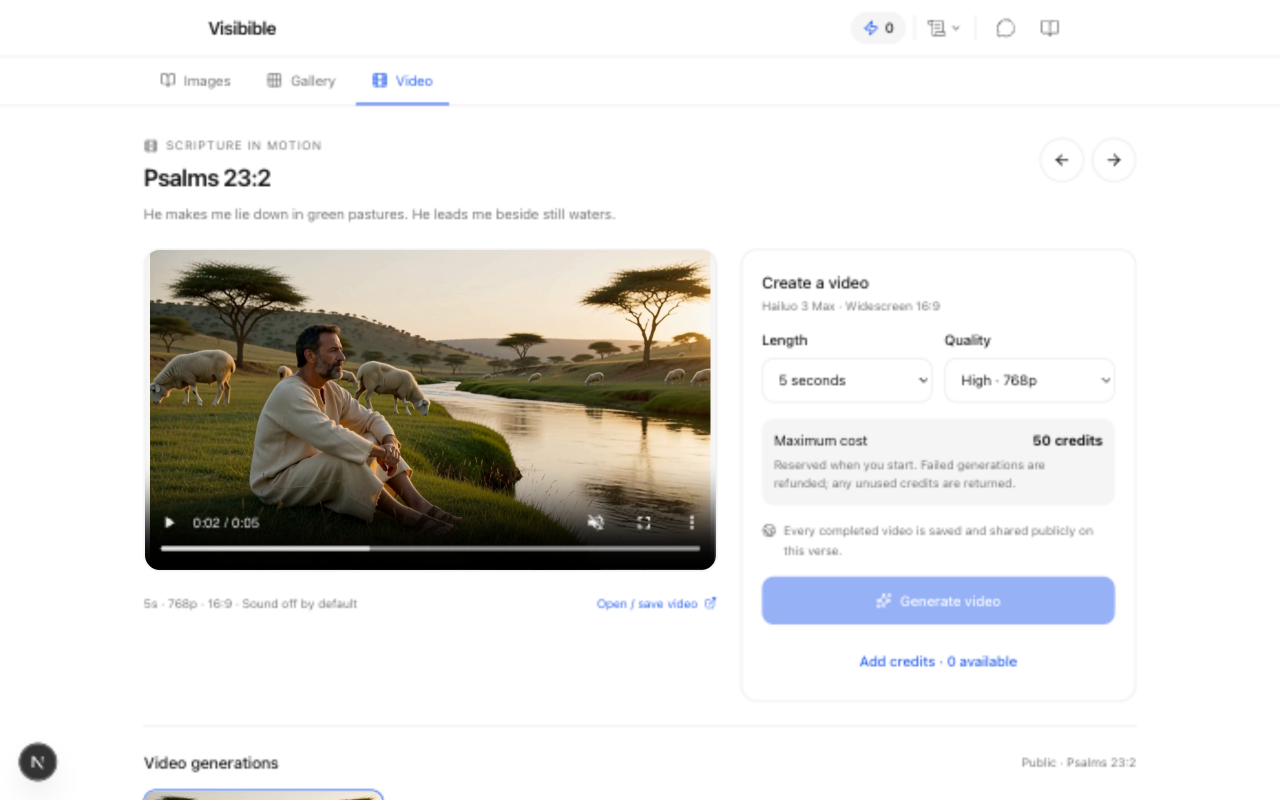
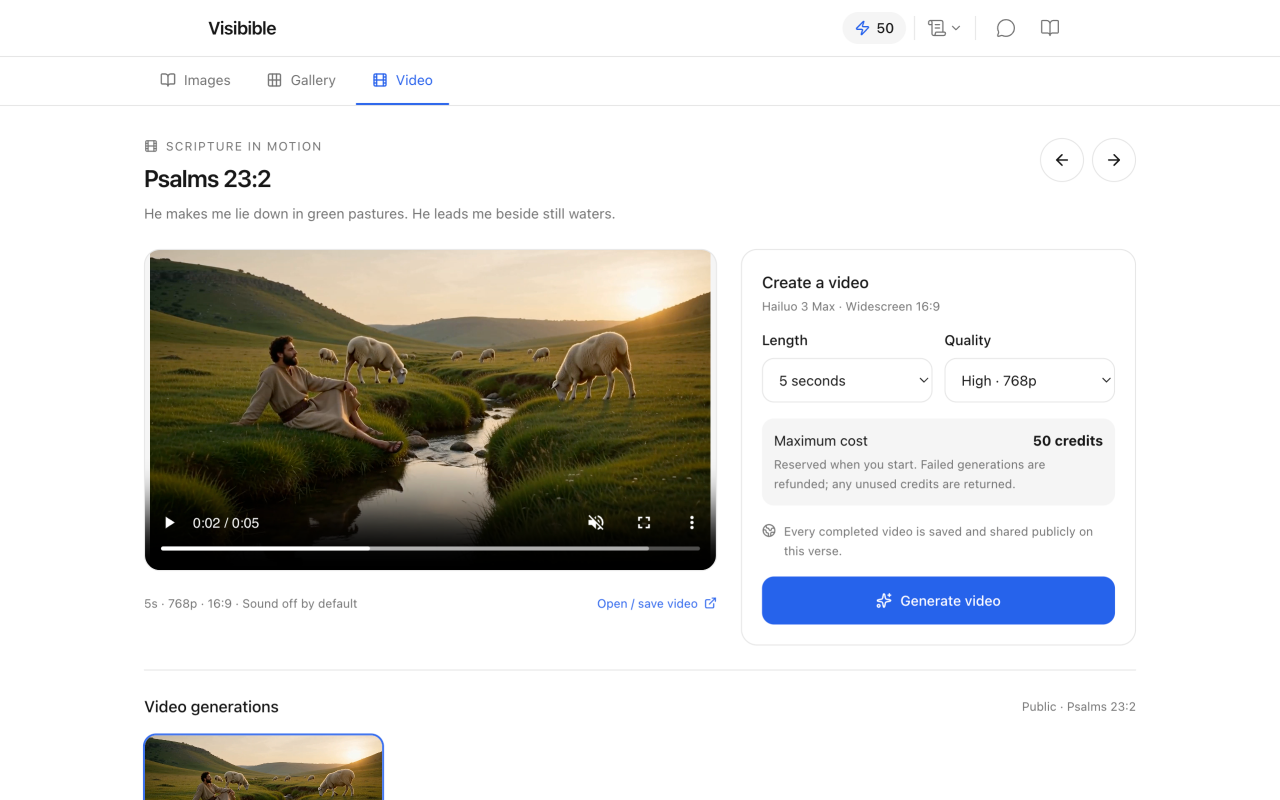
Record hosted video generation and playback evidence

diff --git a/llm/releases/2026-10-30-video-mode/README.md b/llm/releases/2026-10-30-video-mode/README.md
@@ -1,13 +1,23 @@
 # Video mode integration evidence
 
-These screenshots show the integrated Video tab on the October 30 main base (`f73baa8`), using an existing local Psalms 23:2 clip. Desktop: 1280×800; mobile viewport: 390×844. They establish local UI behavior, not hosted worker readiness or physical-device testing.
+The hosted preview at code commit `96d2cfa9224f909d92e959f8fdb71a779844f0ef` completed one Psalms 23:2 video using Hailuo 3 Max: 5 seconds, 768p, $0.40 provider cost, 50 credits, 15.616 seconds. [Machine-readable report](hosted-report.json).
 
-![Desktop video mode](desktop.png)
+- Frontend: `https://visibible-paml4gzx8-austin-kelsays-projects.vercel.app`
+- Backend: `https://coordinated-shepherd-515.convex.cloud`
+- Normal credited guest; initial 100 credits, final 50. Exactly one job and one generation charge, with the reservation released and zero absorbed cost.
+- An identical admission replay returned the same job. Navigation away occurred during processing. The job completed before the later close/reopen check, so this live run does not establish closure mid-job.
+- Permanent storage and public history verified; desktop playback, sound, seeking, and HTTP 206 passed. A different zero-credit guest played the same clip in an incognito mobile viewport.
 
-<img src="mobile.png" alt="Mobile video mode" width="390" />
+These are hosted screenshots: desktop 1280×800 and mobile viewport 390×844.
 
-Local verification passed: 1,150 tests (one skipped), typecheck, lint (three pre-existing release-script warnings), and 82.22% statement coverage. Playback, sound, seeking, anonymous history, refresh, mode switching, and mobile verse navigation were exercised. A controlled local job exercised the real reservation/refund mutations and cross-verse active state without a provider call. Accepted-job completion with admission disabled is covered by the worker test; the disabled UI retains public history.
+![Hosted desktop video mode](desktop.png)
 
-Sol approved the behavior in two review rounds. The fixes preserve the exact displayed settings and maximum charge during interrupted-request recovery, expose pricing retries after catalog outages, and avoid browser-only AbortSignal static helpers. The first two regression tests were observed failing before the fixes.
+<img src="mobile.png" alt="Hosted anonymous mobile video mode" width="390" />
 
-Before the first push, a guarded shared-development Convex dry run reported seven additive video indexes and no index deletions. The PR records hosted deployment, generation, and settlement evidence separately when completed. Production rollout remains a separate release decision.
+Local verification passed: 1,150 tests (one skipped), typecheck, lint (three pre-existing release-script warnings), and 82.22% statement coverage. Works validation passed. Final-code CI passed its production build and dependency audit. Local browser checks also covered refresh, mode switching, mobile verse navigation, and the credit-purchase entry flow without making a purchase.
+
+A controlled local job exercised actual reservation/refund mutations, refresh, and cross-verse active state without a provider call. Accepted-job completion with admission disabled is covered by the worker test; the disabled UI retains public history. Only the 5s/768p SKU was exercised live. A mobile viewport is not physical-device testing.
+
+Sol approved the behavior in two review rounds. Fixes preserve the exact displayed settings and maximum charge during interrupted-request recovery, expose pricing retries after catalog outages, and avoid browser-only AbortSignal static helpers. The first two regression tests failed before the fixes and passed afterward.
+
+Before the first push, a guarded shared-development Convex dry run reported seven additive video indexes and no deletions. Both preview build logs confirmed no index deletion. The PR records final checks and review status. Production rollout remains a separate release decision.
